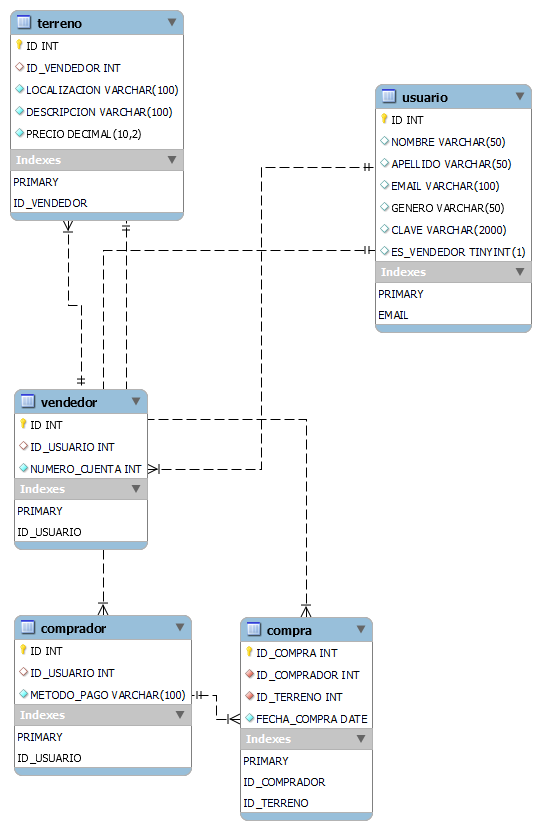
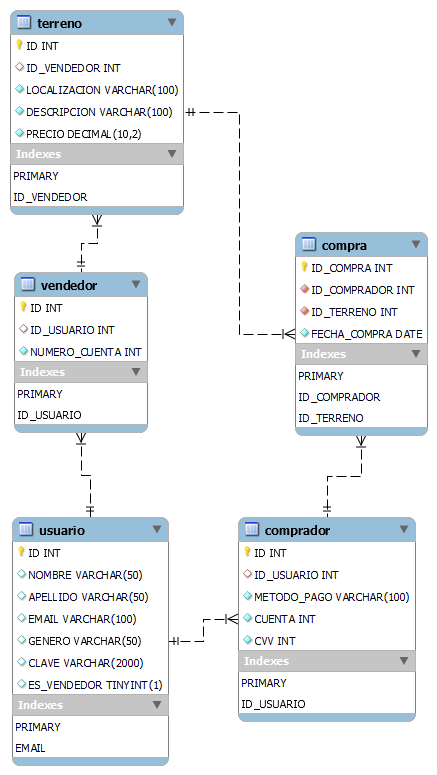
sql modified

diff --git a/README.md b/README.md
@@ -29,7 +29,7 @@ CREATE TABLE USUARIO (
 CREATE TABLE VENDEDOR (
   ID INT PRIMARY KEY AUTO_INCREMENT,
   ID_USUARIO INT,
-  NUMERO_CUENTA INT NOT NULL DEFAULT NULL,
+  NUMERO_CUENTA INT NOT NULL,
   FOREIGN KEY (ID_USUARIO) REFERENCES USUARIO(ID)
 );
 
@@ -37,6 +37,8 @@ CREATE TABLE COMPRADOR (
   ID INT PRIMARY KEY AUTO_INCREMENT,
   ID_USUARIO INT,
   METODO_PAGO VARCHAR(100) NOT NULL,
+  CUENTA INT NOT NULL,
+  CVV INT NOT NULL,
   FOREIGN KEY (ID_USUARIO) REFERENCES USUARIO(ID)
 );
 
@@ -62,10 +64,15 @@ INSERT INTO USUARIO(NOMBRE, APELLIDO, EMAIL, GENERO, CLAVE) VALUES("usuario", "p
 
 
 SELECT * FROM USUARIO;
+SELECT * FROM VENDEDOR;
+SELECT * FROM TERRENO;
+SELECT * FROM COMPRADOR;
+SELECT * FROM COMPRA;
+
 ~~~ 
 ### PHP 🐘
 ~~~PHP
-	UserModel.php
+UserModel.php
 ~~~
 
 #### Todos Los archivos involucrados estan en pagina_web_corte_2
